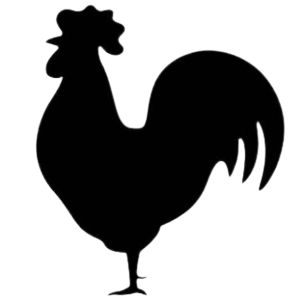
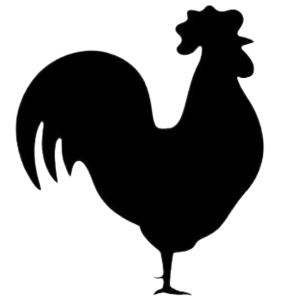
feat: Animals Management screen done and refactored cards to include edit counter dropdown

Changed region(s): [[0.03, 0.0, 0.96, 0.99]]

diff --git a/components/cards/AnimalCard.jsx b/components/cards/AnimalCard.jsx
@@ -1,13 +1,43 @@
 import { View, Text, Image, TouchableOpacity } from "react-native";
 import { Ionicons } from "@expo/vector-icons";
 import styles from "../../styles/components/cards/AnimalCardStyles";
+import { useState } from "react";
 
-export default function AnimalCard({ icon, count, breeds, isExpanded, onToggle, }) {
+export default function AnimalCard({ icon, count, breeds, totalBreeds, isExpanded, onToggle }) {
+  
+  const [editIndex, setEditIndex] = useState(null);
+  const [localBreeds, setLocalBreeds] = useState([...breeds]);
+
+  const handleIncrement = (index) => {
+    const updated = [...localBreeds];
+    updated[index].count += 1;
+    setLocalBreeds(updated);
+  };
+
+  const handleDecrement = (index) => {
+    const updated = [...localBreeds];
+    if (updated[index].count > 0) updated[index].count -= 1;
+    setLocalBreeds(updated);
+  };
+
+  const handleSave = () => {
+    // FUNCIÓN GUARDAR EN BACK
+    setEditIndex(null);
+  };
+
+  const handleDelete = (index) => {
+    const updated = [...localBreeds];
+    updated.splice(index, 1); 
+    setLocalBreeds(updated);
+    setEditIndex(null);
+  };
+  
   return (
     <View style={styles.cardContainer}>
       <View style={styles.topRow}>
         <Image source={icon} style={styles.icon} />
         <Text style={styles.count}>{count}</Text>
+        <Text style={styles.totalBreedCount}>{totalBreeds} Especies</Text>
         <TouchableOpacity style={styles.dropdownButton} onPress={onToggle}>
           <Ionicons
             name={isExpanded ? "chevron-up-outline" : "chevron-down-outline"}
@@ -19,10 +49,40 @@ export default function AnimalCard({ icon, count, breeds, isExpanded, onToggle, 
 
       {isExpanded && (
         <View style={styles.breedList}>
-          {breeds.map((b, i) => (
+          {localBreeds.map((b, i) => (
             <View key={i} style={styles.breedRow}>
               <Text style={styles.breedName}>{b.name}</Text>
-              <Text style={styles.breedCount}>{b.count}</Text>
+
+              <View style={styles.editContainer}>
+                {editIndex === i ? (
+                  <View style={styles.counterContainer}>
+                    <View style={styles.topContainer} >
+                    <TouchableOpacity onPress={() => handleDecrement(i)}>
+                      <Ionicons name="remove" style={styles.counterIcons} />
+                    </TouchableOpacity>
+                    <Text style={styles.breedCount}>{b.count}</Text>
+                    <TouchableOpacity onPress={() => handleIncrement(i)}>
+                      <Ionicons name="add" style={styles.counterIcons} />
+                    </TouchableOpacity>
+                    </View>
+                    <View style={styles.downContainer}>
+                      <TouchableOpacity onPress={handleDelete}>
+                        <Ionicons name="trash-outline" style={styles.deleteIcon} />
+                      </TouchableOpacity> 
+                      <TouchableOpacity onPress={handleSave}>
+                        <Ionicons name="checkmark" style={styles.saveIcon} />
+                      </TouchableOpacity> 
+                    </View>                 
+                  </View>
+                ) : (
+                  <>
+                    <Text style={styles.breedCount}>{b.count}</Text>
+                    <TouchableOpacity onPress={() => setEditIndex(i)}>
+                      <Ionicons name="create-outline" style={styles.editIcon} />
+                    </TouchableOpacity>
+                  </>
+                )}
+              </View>
             </View>
           ))}
         </View>

diff --git a/styles/components/cards/AnimalCardStyles.js b/styles/components/cards/AnimalCardStyles.js
@@ -1,0 +1,98 @@
+import { StyleSheet } from 'react-native';
+
+export default StyleSheet.create({
+    cardContainer: {
+        backgroundColor: '#fff',
+        borderWidth: 1,
+        borderColor: '#ddd',
+        borderRadius: 12,
+        padding: 16,
+        marginBottom: 16,
+        shadowColor: '#000',
+        shadowOpacity: 0.1,
+        shadowOffset: { width: 0, height: 2 },
+        shadowRadius: 5,
+        elevation: 2,
+    },
+    topRow: {
+        flexDirection: 'row',
+        alignItems: 'center',
+        justifyContent: 'space-between',
+    },
+    icon: {
+        width: 60,
+        height: 60,
+    },
+    count: {
+        fontSize: 50,
+        fontWeight: 'bold',
+        marginLeft: 12,
+        flex: 1,
+    },
+    totalBreedCount: {
+        fontSize: 16,
+    },
+    dropdownButton: {
+        padding: 4,
+    },
+    breedList: {
+        marginTop: 12,
+        borderTopWidth: 1,
+        borderTopColor: '#eee',
+        paddingTop: 15,
+        alignItems: 'start',
+    },
+    breedRow: {
+        flexDirection: 'row',
+        justifyContent: 'space-between',
+        alignItems: 'start',
+        paddingVertical: 4,
+    },
+    breedName: {
+        fontSize: 16,
+        color: '#444',
+    },
+    editContainer: {
+        flexDirection: 'row',
+        alignItems: 'center',
+        textAlign: 'center',
+        justifyContent: 'flex-start',
+    },
+    counterContainer: {
+        flexDirection: 'column',
+        alignItems: 'end',
+    },
+    topContainer: {
+        flexDirection: 'row',
+        alignItems: 'center',
+    },
+    downContainer: {
+        flexDirection: 'row',
+        justifyContent: 'flex-end',
+        alignItems: 'center',
+        marginVertical: 5,
+    },
+    breedCount: {
+        fontSize: 20,
+        fontWeight: '600',
+        marginHorizontal: 8,
+    },
+    editIcon: {
+        fontSize: 20,
+        color: '#888',
+    },
+    counterIcons: {
+        fontSize: 24,
+        color: '#888',
+    },
+    deleteIcon: {
+        fontSize: 22,
+        marginLeft: 5,
+        color: 'red',
+    },
+    saveIcon: {
+        fontSize: 28,
+        marginLeft: 5,
+        color: 'green',
+    },
+});

diff --git a/components/cards/AnimalCountsCard.jsx b/components/cards/AnimalCountsCard.jsx
@@ -1,10 +1,14 @@
 import React from 'react';
 import { View, Text, Image, TouchableOpacity } from 'react-native';
 import styles from '../../styles/components/cards/AnimalCountsCardStyles.js';
+import { useNavigation } from '@react-navigation/native';
 
 export default function AnimalCountsCard({ galloCount, gallinaCount, pollitoCount }) {
+
+  const navigation = useNavigation();
+  
   return (
-    <TouchableOpacity>
+    <TouchableOpacity onPress={navigation.navigate('GestionAnimales')} >
       <View style={styles.cardContainer}>
       <View style={styles.animalRow}>
         <View style={styles.animalItem}>
@@ -17,7 +21,7 @@ export default function AnimalCountsCard({ galloCount, gallinaCount, pollitoCoun
         </View>
         <View style={styles.animalItem}>
           <Text style={styles.animalCount}>{galloCount}</Text>
-          <Image source={require('../../assets/img/gallo-icon.png')} style={styles.animalImage} />
+          <Image source={require('../../assets/img/gallo-reverse-icon.png')} style={styles.animalImage} />
         </View>
       </View>
       </View>

diff --git a/screens/AnimalManagementScreen.jsx b/screens/AnimalManagementScreen.jsx
@@ -1,9 +1,11 @@
 import { ScrollView } from 'react-native';
 import AnimalCard from '../components/cards/AnimalCard';
+import { useState } from 'react';
+import styles from '../styles/AnimalManagementScreenStyles';
+import SectionHeader from '../components/SectionHeader';
 
 export default function AnimalManagementScreen() {
   const [expandedType, setExpandedType] = useState(null);
-
   const animalTypes = [
     {
       key: 'gallina',
@@ -32,7 +34,10 @@ export default function AnimalManagementScreen() {
         { name: 'Andaluz', count: 4 },
       ],
     },
-  ];
+  ].map((animal) => ({
+    ...animal,
+    totalBreeds: animal.breeds.length,
+  }));
 
   return (
     <ScrollView style={styles.screenContainer} >
@@ -43,6 +48,7 @@ export default function AnimalManagementScreen() {
           icon={type.icon}
           count={type.count}
           breeds={type.breeds}
+          totalBreeds={type.totalBreeds}
           isExpanded={expandedType === type.key}
           onToggle={() =>
             setExpandedType(expandedType === type.key ? null : type.key)

diff --git a/styles/AnimalManagementScreenStyles.js b/styles/AnimalManagementScreenStyles.js
@@ -1,0 +1,9 @@
+import { StyleSheet } from 'react-native';
+
+export default StyleSheet.create({ 
+    screenContainer: {
+        flex: 1,
+        backgroundColor: '#fff',
+        padding: 16,
+    },
+});
